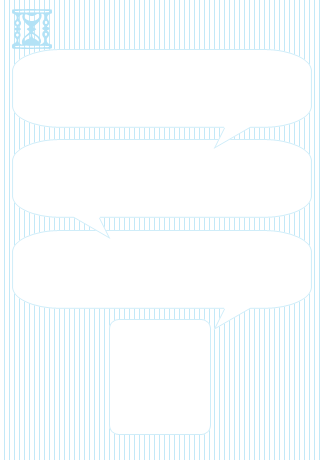
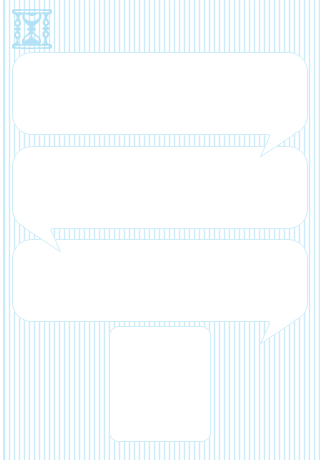
redeisgn of all screens

diff --git a/twittaddict/Classes/GameOverController.m b/twittaddict/Classes/GameOverController.m
@@ -96,9 +96,12 @@
 	}
 	NSDictionary *highScore = [highScores objectAtIndex:[indexPath row]];
 	if (highScore==lastScore) {
-		cell.textLabel.textColor = [UIColor redColor];
+		cell.textLabel.textColor = [UIColor colorWithRed:110.0f/255.0f green:180.0f/255.0f blue:205.0f/255.0f alpha:1.0];
+	} else {
+		cell.textLabel.textColor = [UIColor colorWithRed:85.0f/255.0f green:85.0f/255.0f blue:85.0f/255.0f alpha:1.0];
 	}
 	cell.textLabel.text = [NSString stringWithFormat:@"%d. %@",[indexPath row]+1,[[highScore valueForKey:@"score"]stringValue]];
+	cell.textLabel.font = [UIFont fontWithName:@"Marker Felt" size:18.0f];
 	return cell;
 }
 

diff --git a/twittaddict/Classes/MatchController.m b/twittaddict/Classes/MatchController.m
@@ -52,6 +52,7 @@
 	retrievedCurrentUser = NO;
 	correctUserID = [[NSString alloc]init];
 	selectedUsers = [[NSMutableArray alloc]init];
+	tweetText.font = [UIFont fontWithName:@"Arial" size:14.0f];
 	
 	if(!_engine){
 		_engine = [[SA_OAuthTwitterEngine alloc] initOAuthWithDelegate:self];

diff --git a/twittaddict/Classes/FriendStatsController.m b/twittaddict/Classes/FriendStatsController.m
@@ -19,6 +19,7 @@
 
 -(void)viewDidLoad {
 	bestStats = [[NSMutableArray alloc]init];
+	statsLabel.text = [NSString stringWithFormat:@"Friends %@ knows best...", [currentUser objectForKey:@"screen_name"]];
 	[super viewDidLoad];
 }
 

diff --git a/twittaddict/Classes/FriendStatsController.h b/twittaddict/Classes/FriendStatsController.h
@@ -21,4 +21,6 @@
 @property(nonatomic,retain) IBOutlet UILabel *statsLabel;
 @property(nonatomic,retain) IBOutlet UITableView *statsTable;
 
+-(void)loadBestStats;
+
 @end
